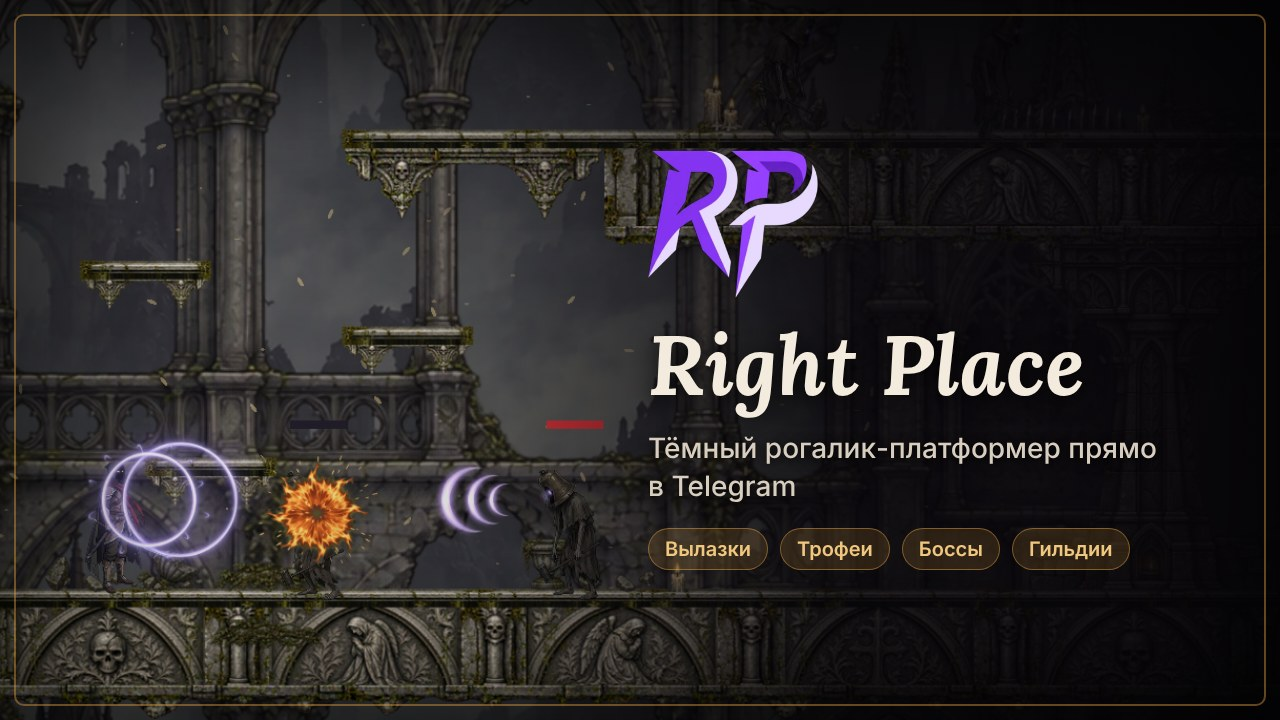
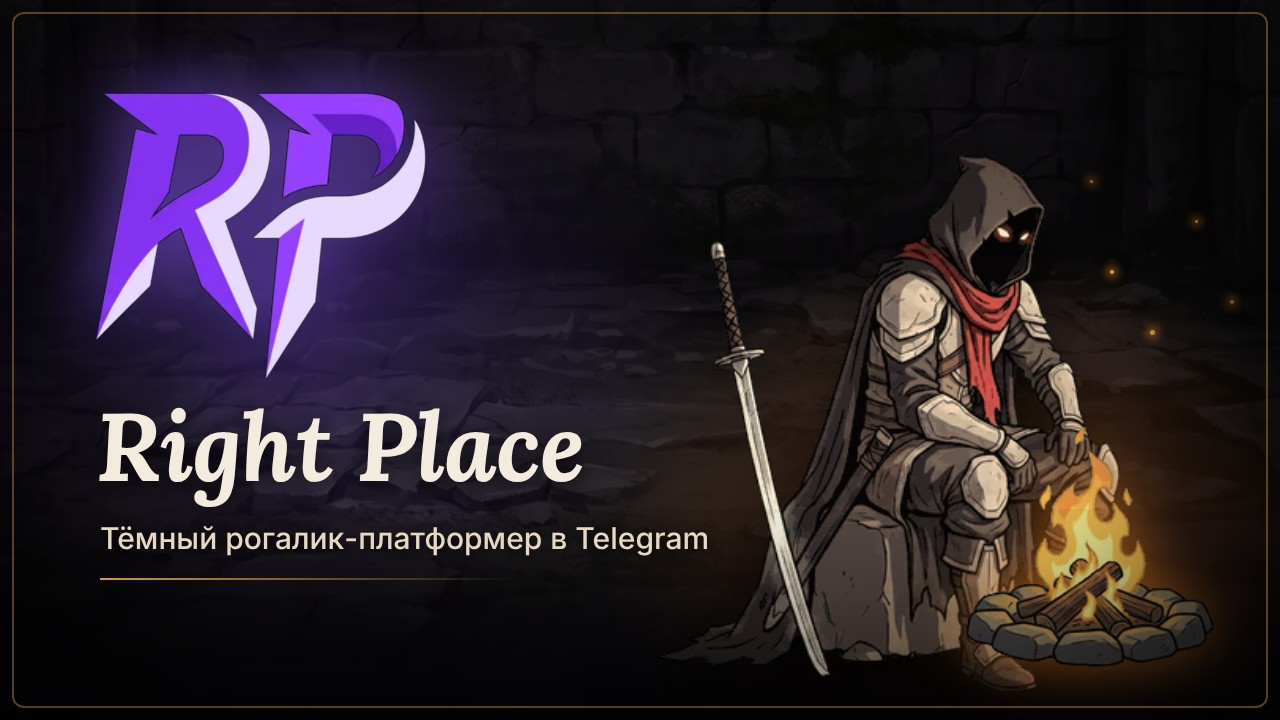
Бот: новая обложка start.jpg, «↩ Вернуть» под уведомлением, лимит 2 фоновых звона в сутки

diff --git a/server/src/bot/cron.ts b/server/src/bot/cron.ts
@@ -23,7 +23,13 @@ const COMEBACK_1_MS = 3 * DAY_MS
 const COMEBACK_2_MS = 7 * DAY_MS
 const IN_GAME_MS = 15 * 60_000
 const EXPIRE_MS = 48 * 3600_000
-const MAX_PER_DAY = 3
+/**
+ * Не больше 2 «фоновых» звонов игроку за 24 часа (решение Андрея 13.11.2026):
+ * полная энергия, новые задания, «вернись». Гильдия и друзья — ответ на действие
+ * другого игрока, в лимит не идут и его не тратят.
+ */
+const LIMITED_KINDS: readonly string[] = ['energy', 'quests', 'comeback']
+const MAX_LIMITED_PER_DAY = 2
 const MAX_PER_TICK = 300
 const SEND_GAP_MS = 40 // 25 в секунду
 const RETRY_MS = 5 * 60_000
@@ -107,12 +113,12 @@ async function sendQueue(now: Date, log: FastifyBaseLogger): Promise<QueueCounte
     take: MAX_PER_TICK,
     include: { character: { select: { botAllowed: true, botBlocked: true, notifySettings: true, lastActiveAt: true, user: { select: { telegramId: true } } } } },
   })
-  // Отправленные игроку за сутки: моменты, по персонажу.
+  // Отправленные игроку за сутки звоны из лимита: моменты, по персонажу.
   const sentDay = new Map<number, number[]>()
   const ids = [...new Set(due.map((d) => d.characterId))]
   if (ids.length > 0) {
     const recent = await prisma.botNotification.findMany({
-      where: { characterId: { in: ids }, sentAt: { gte: new Date(now.getTime() - DAY_MS) }, error: null },
+      where: { characterId: { in: ids }, kind: { in: [...LIMITED_KINDS] }, sentAt: { gte: new Date(now.getTime() - DAY_MS) }, error: null },
       select: { characterId: true, sentAt: true },
     })
     for (const r of recent) {
@@ -142,9 +148,10 @@ async function sendQueue(now: Date, log: FastifyBaseLogger): Promise<QueueCounte
       else { await defer(d.id, new Date(c.lastActiveAt.getTime() + IN_GAME_MS)); n.deferred++ }
       continue
     }
+    const limited = LIMITED_KINDS.includes(d.kind)
     const day = (sentDay.get(d.characterId) ?? []).filter((t) => now.getTime() - t < DAY_MS).sort((a, b) => a - b)
-    if (day.length >= MAX_PER_DAY) {
-      await defer(d.id, new Date(day[day.length - MAX_PER_DAY] + DAY_MS))
+    if (limited && day.length >= MAX_LIMITED_PER_DAY) {
+      await defer(d.id, new Date(day[day.length - MAX_LIMITED_PER_DAY] + DAY_MS))
       n.deferred++
       continue
     }
@@ -154,8 +161,10 @@ async function sendQueue(now: Date, log: FastifyBaseLogger): Promise<QueueCounte
     const res = await sendCard(c.user.telegramId.toString(), view.photo, view.caption, view.keyboard)
     if (res.ok) {
       await prisma.botNotification.update({ where: { id: d.id }, data: { sentAt: new Date(), error: null } })
-      day.push(Date.now())
-      sentDay.set(d.characterId, day)
+      if (limited) {
+        day.push(Date.now())
+        sentDay.set(d.characterId, day)
+      }
       n.sent++
     } else if (res.status === 403) {
       await close(d.id, `blocked: ${res.description}`.slice(0, 500))

diff --git a/server/src/bot/notify.ts b/server/src/bot/notify.ts
@@ -2,7 +2,7 @@
 //
 // queueNotification только СТАВИТ запись в BotNotification; отправляет её
 // GET /cron/tick (bot/cron.ts). Так ручки игры не ждут Telegram, а лимиты
-// (25 в секунду, 3 игроку за сутки, «игрок сейчас в игре») решаются в одном месте.
+// (25 в секунду, 2 фоновых звона игроку за сутки, «игрок сейчас в игре») решаются в одном месте.
 // Ошибка постановки наружу не летит — лог и всё: уведомление никогда не ломает
 // ручку, которая его ставит.
 import { PrismaClient, Prisma } from '@prisma/client'
@@ -126,13 +126,13 @@ function guildName(payload: unknown): string {
 
 /**
  * Кнопки уведомления: [⚔ Играть] [🔕 Не присылать такое]. Нажатие выключает
- * этот тип (callback `no:<настройка>`) и меняет кнопку на «Вернуть» (`yes:<…>`).
+ * этот тип (callback `no:<настройка>`) и меняет кнопку на «↩ Вернуть» (`yes:<…>`).
  */
 export function notificationKeyboard(setting: NotifySettingKey, muted: boolean): Keyboard {
   return [[
     playButton(),
     muted
-      ? { text: '✅ Больше не пришлю · Вернуть', callback_data: `yes:${setting}` }
+      ? { text: '↩ Вернуть', callback_data: `yes:${setting}` }
       : { text: '🔕 Не присылать такое', callback_data: `no:${setting}` },
   ]]
 }

diff --git a/server/src/bot/webhook.ts b/server/src/bot/webhook.ts
@@ -279,7 +279,7 @@ async function handleCallback(q: TgCallback, log: FastifyBaseLogger) {
     const on = head === 'yes'
     const s = await setSetting(q.from.id, (st) => { st[key] = on })
     if (!s) { await answerCallbackQuery(q.id, 'Сначала зайди в игру'); return }
-    await answerCallbackQuery(q.id, on ? 'Включено' : 'Выключено')
+    await answerCallbackQuery(q.id, on ? 'Включено' : 'Больше не пришлю такое')
     if (q.message) {
       const r = await editMessageReplyMarkup(chatId, q.message.message_id, notificationKeyboard(key, !on))
       if (!r.ok && !isNotModified(r)) log.warn({ description: r.description }, 'bot: notification markup edit failed')

diff --git a/docs/bot.md b/docs/bot.md
@@ -26,7 +26,7 @@ Render Free. Ответ — JSON со счётчиками (`queued`, `queue.sen
 | `bot/telegram.ts` | `call()` (429 — ждать `retry_after` и один повтор; 403 — `botBlocked=true`), обёртки, кнопки (`style` Bot API 9.4), `sendCard` — фото, а если Telegram не взял картинку, тот же текст сообщением |
 | `bot/notify.ts` | `queueNotification(characterId, kind, payload?)` — только ставит в `BotNotification`; не ставит при выключенном типе, `botAllowed=false`, `botBlocked`. Тихие часы 23:00–09:00 МСК → ближайшие 09:00. Тексты и картинки уведомлений |
 | `bot/webhook.ts` | `POST /bot/webhook`. **Одна карточка** (13.11.2026, вечер): `/start`, `/play`, `/notify`, `/friends`, `/help` шлют одну карточку-фото; кнопки меню меняют её же (`editMessageMedia`), карточка старше 47 ч или правка не прошла — новая. Экраны: главный (start.jpg; [Играть] / [Уведомления] [Друзья] / [Канал: +50 RP] [Как играть]), уведомления (energy.jpg, переключатели меняют кнопки на месте), друзья (friend.jpg: позвано, наград ждёт, `copy_text` со ссылкой, «Отправить другу»), канал (channel.jpg), как играть (quests.jpg); в разделах — [Играть] [‹ Назад]. callback_data — латиница ≤ 64 байт (схема — в шапке файла), параметр /start (≤ 48 знаков) едет во всех кнопках. Эффект 🔥 — только при первом /start (флаг `botStarted` в `notifySettings`; без персонажа — в памяти до перезапуска). Обычный текст — «Я понимаю только кнопки 🙂» и главный экран, не чаще раза в 10 мин. Ошибка — «Колокол сбился…», детали в лог. Любое сообщение — `botAllowed=true, botBlocked=false` |
-| `bot/cron.ts` | `GET /cron/tick`: полная энергия, новый набор заданий, «вернись» на 3 и 7 день (`lastSeenAt`, `comebackStage`), отправка очереди: 25/с, до 300 за вызов, игрок в игре (`lastActiveAt` < 15 мин) — energy/quests гасятся, остальное ждёт; не больше 3 игроку за сутки; старше 48 ч — `expired` |
+| `bot/cron.ts` | `GET /cron/tick`: полная энергия, новый набор заданий, «вернись» на 3 и 7 день (`lastSeenAt`, `comebackStage`), отправка очереди: 25/с, до 300 за вызов, игрок в игре (`lastActiveAt` < 15 мин) — energy/quests гасятся, остальное ждёт; energy, quests и comeback — не больше 2 игроку за 24 ч (гильдия и друзья в лимит не идут); старше 48 ч — `expired` |
 | `bot/routes.ts` | `GET/POST /character/notify-settings`, `POST /character/bot-allowed`, `POST /character/channel-reward` (400 `not_subscribed`, 409 `already`, 503 `check_failed`), хук `lastActiveAt` (раз в минуту, не ломает запрос) |
 
 Кто ставит уведомления: вход (`friend_joined` пригласившему при создании игрока
@@ -58,4 +58,4 @@ CREATE TABLE): колонки персонажа `botAllowed`, `botBlocked`, `no
 
 ## Кнопки под уведомлением
 
-[⚔ Играть] [🔕 Не присылать такое] — нажатие выключает этот тип (`no:<настройка>`) и меняет кнопку на «✅ Больше не пришлю · Вернуть» (`yes:<настройка>` включает обратно).
+[⚔ Играть] [🔕 Не присылать такое] — нажатие выключает этот тип (`no:<настройка>`) всплывашкой «Больше не пришлю такое» и меняет кнопки на [⚔ Играть] [↩ Вернуть] (`yes:<настройка>` включает обратно).
